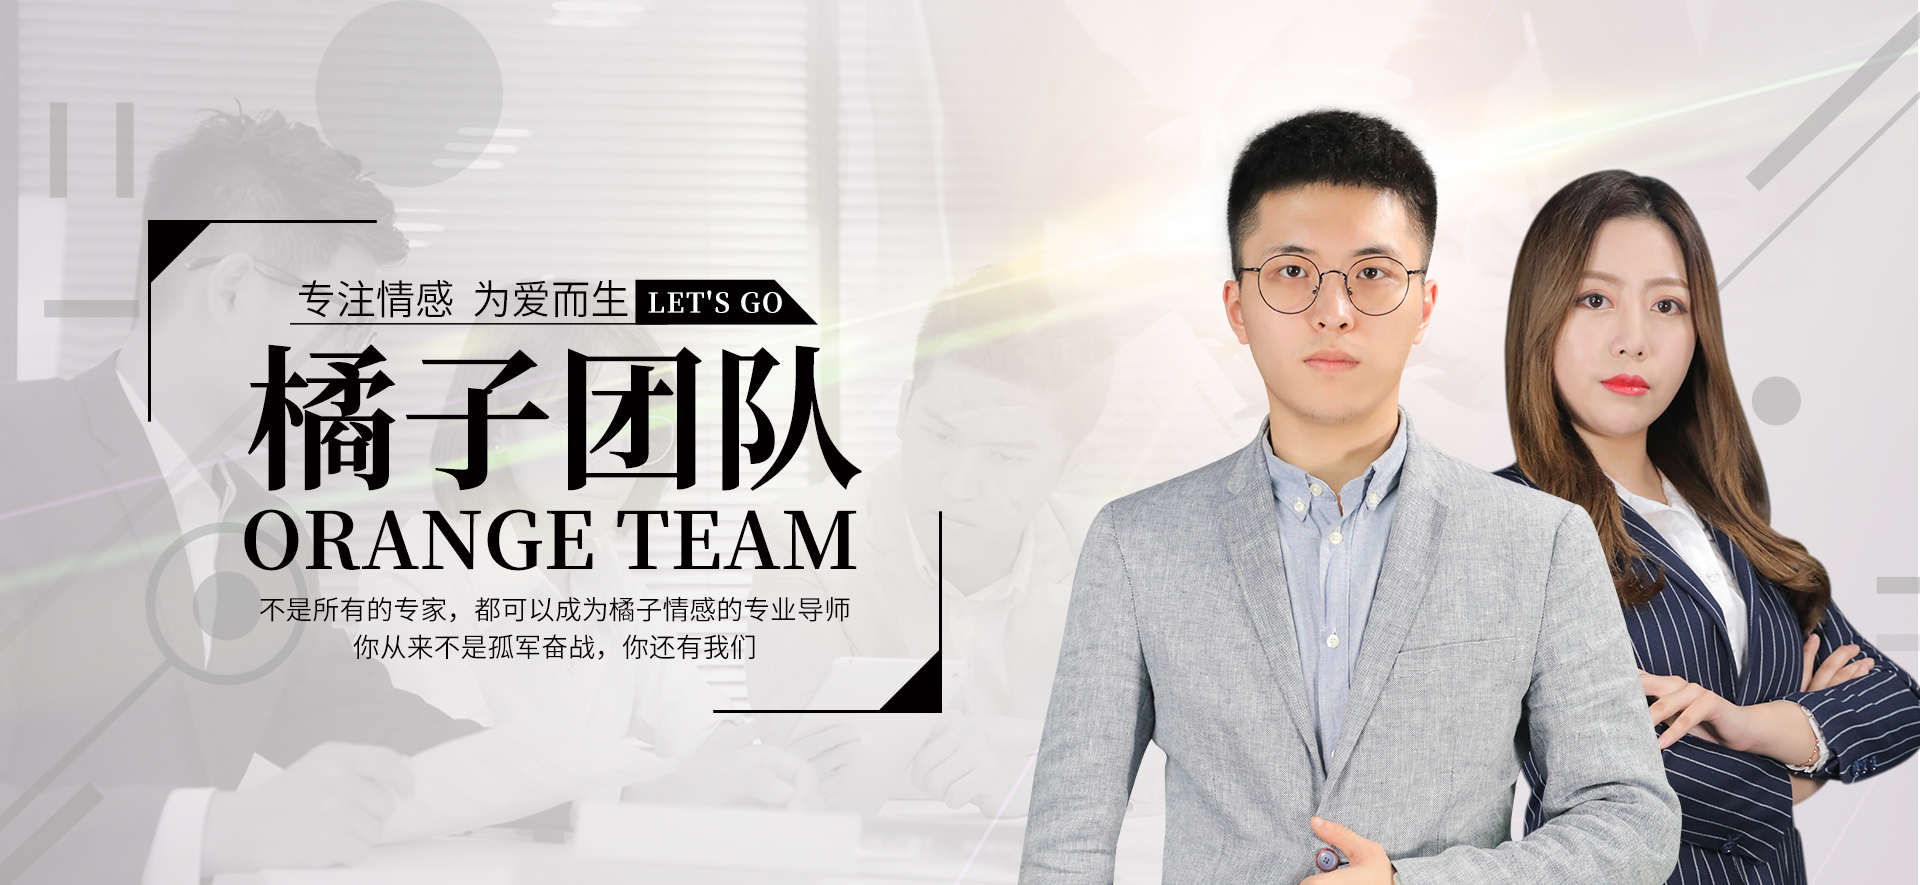
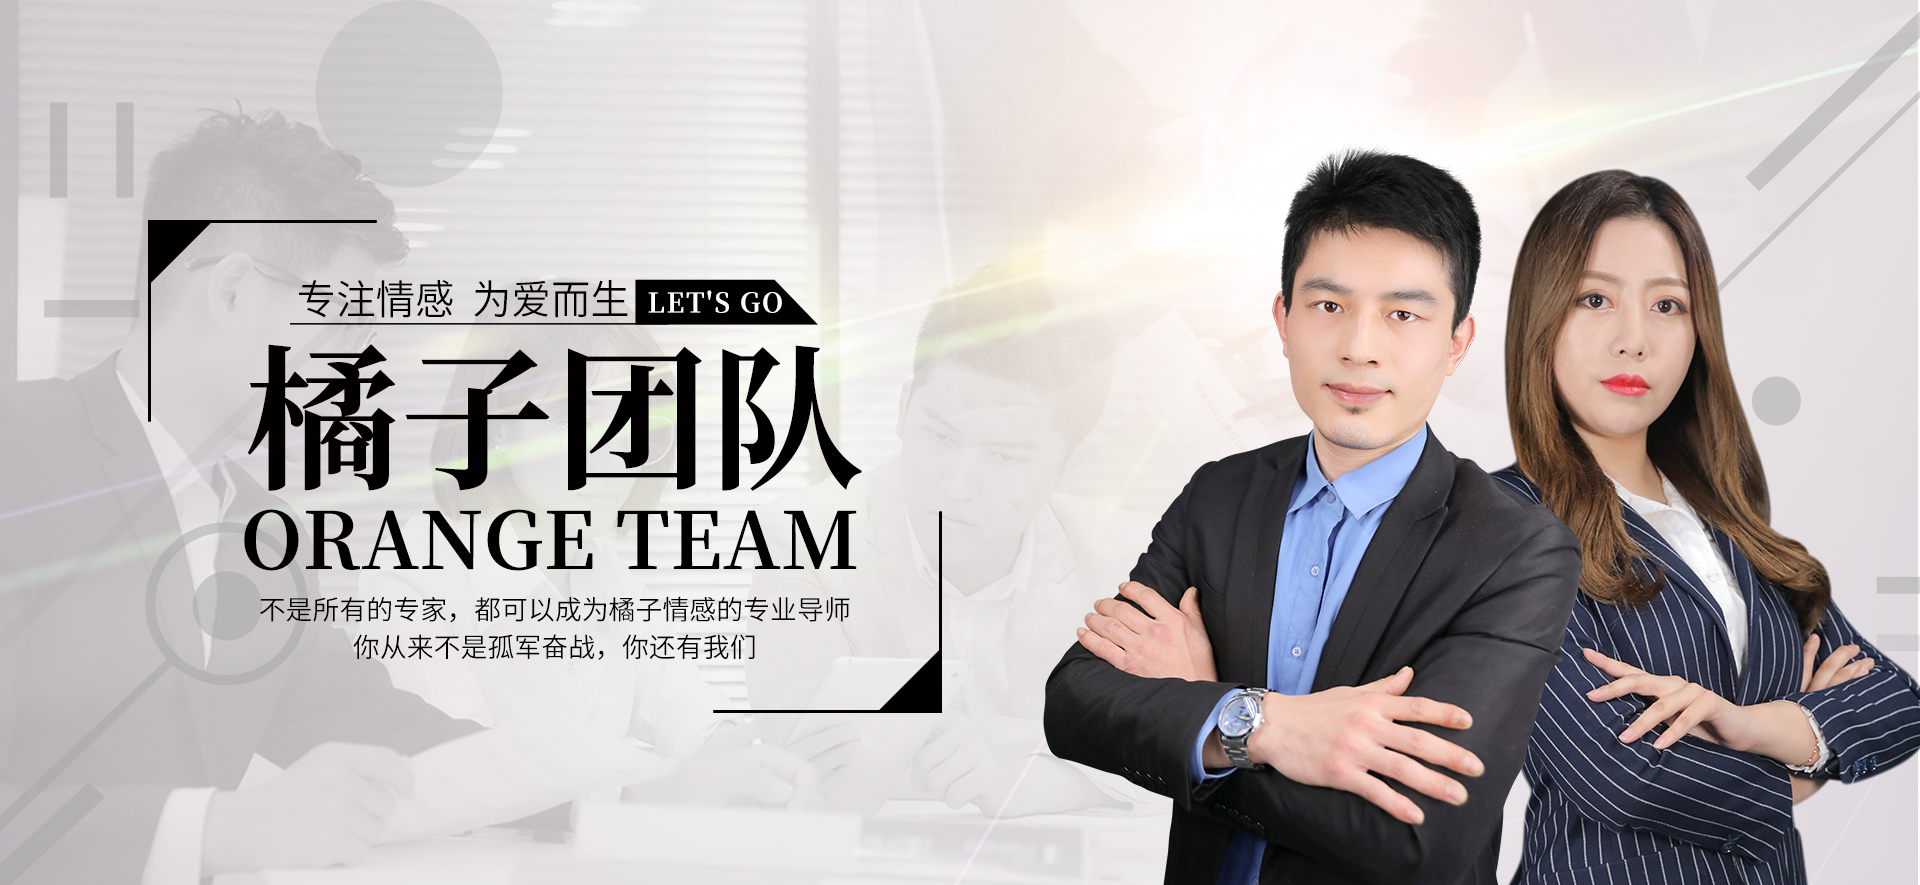
修改离职导师图片和名字

Changed region(s): [[0.5312, 0.122, 0.875, 1.0]]

diff --git a/js/data.js b/js/data.js
@@ -111,13 +111,13 @@ var data = (function () {
         'forum-book' : '嘉伟导师十本好书推荐',
         'page1' : '振宇导师',
         'page2' : '茉言导师',
-        'page3' : '皓霖导师',
+        'page3' : '何风导师',
         'page4' : '沐兮导师',
         'page5' : 'Hope导师',
         'page6' : '子淑导师',
         'page7' : '星冉导师',
         'page8' : '文筠导师',
-				'page11': '泊乔导师'
+				'page11': '白舒导师'
       }
     },
     stateMap = {

diff --git a/js/common.js b/js/common.js
@@ -11,12 +11,12 @@
 		mentor003: '沐兮',
 		mentor004: '星冉',
 		mentor005: '子淑',
-		mentor006: '皓霖',
+		mentor006: '何风',
 		mentor007: 'Hope',
 		mentor008: '文筠',
 		mentor009: '倾楚',
 		mentor010: '谧沙',
-		mentor011: '泊乔'
+		mentor011: '白舒'
 	};
 
 	var updateMentorName = function(targetDom, mentorName) {

diff --git a/views/page3.html b/views/page3.html
@@ -167,7 +167,7 @@
 
 					<!-- 导师图片 -->
 					<div class="pic">
-						<img src="../img/views/03.jpg" alt="橘子情感导师--皓霖">
+						<img src="../img/views/03.png" alt="橘子情感导师--皓霖">
 					</div>
 
 					<!-- 导师介绍 -->
